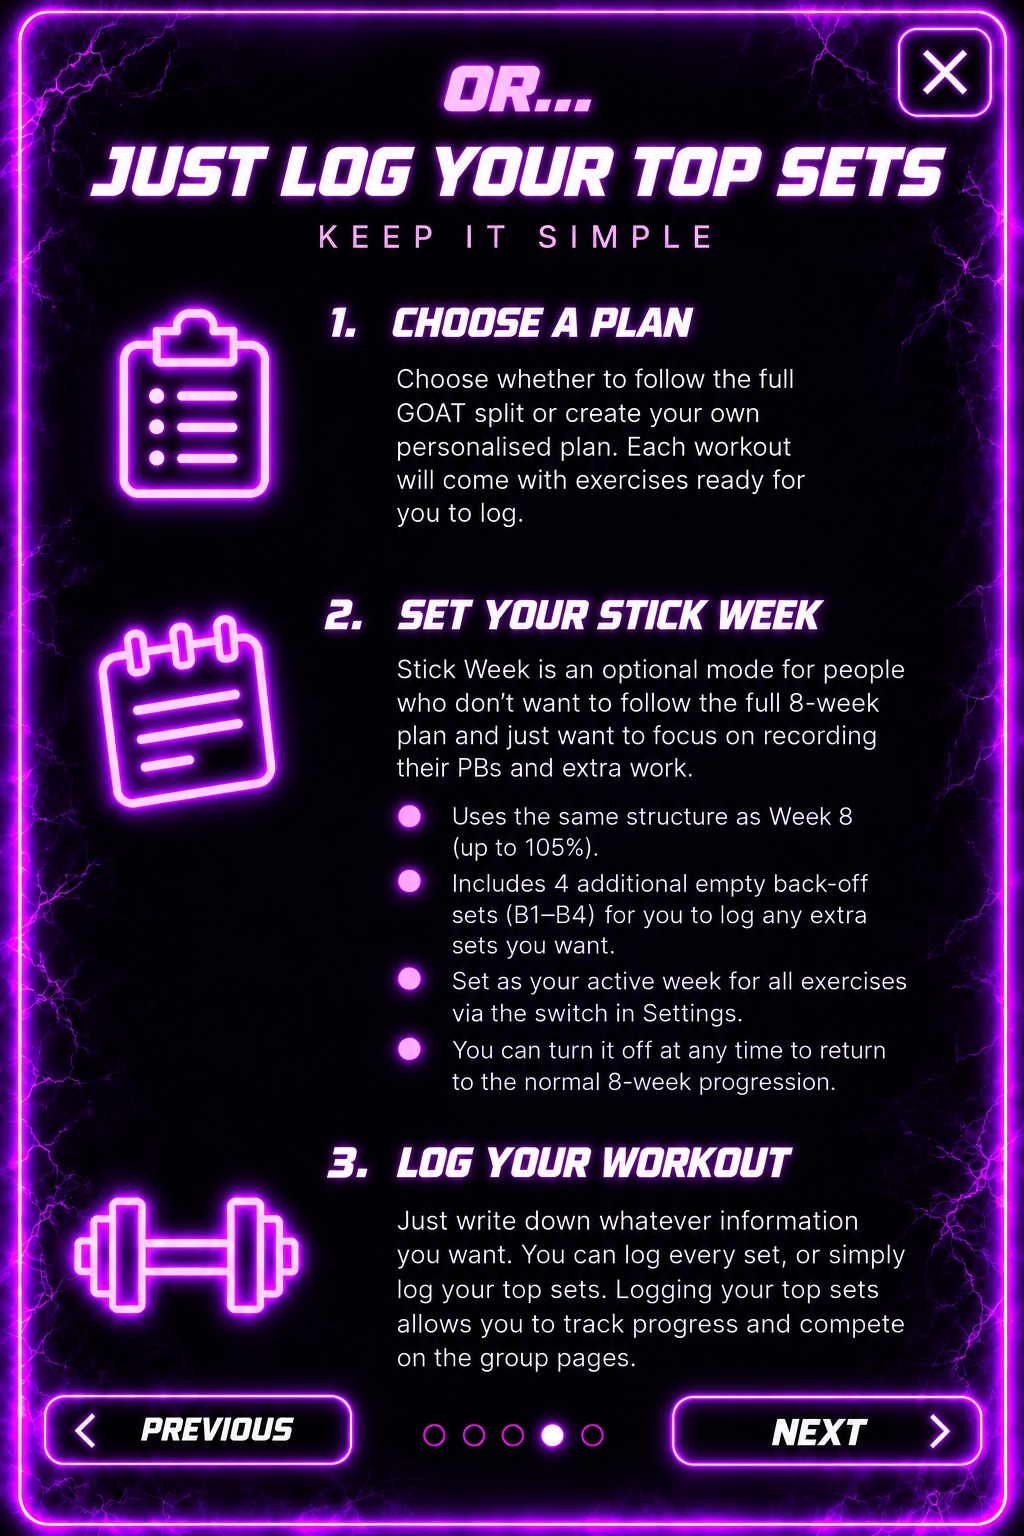
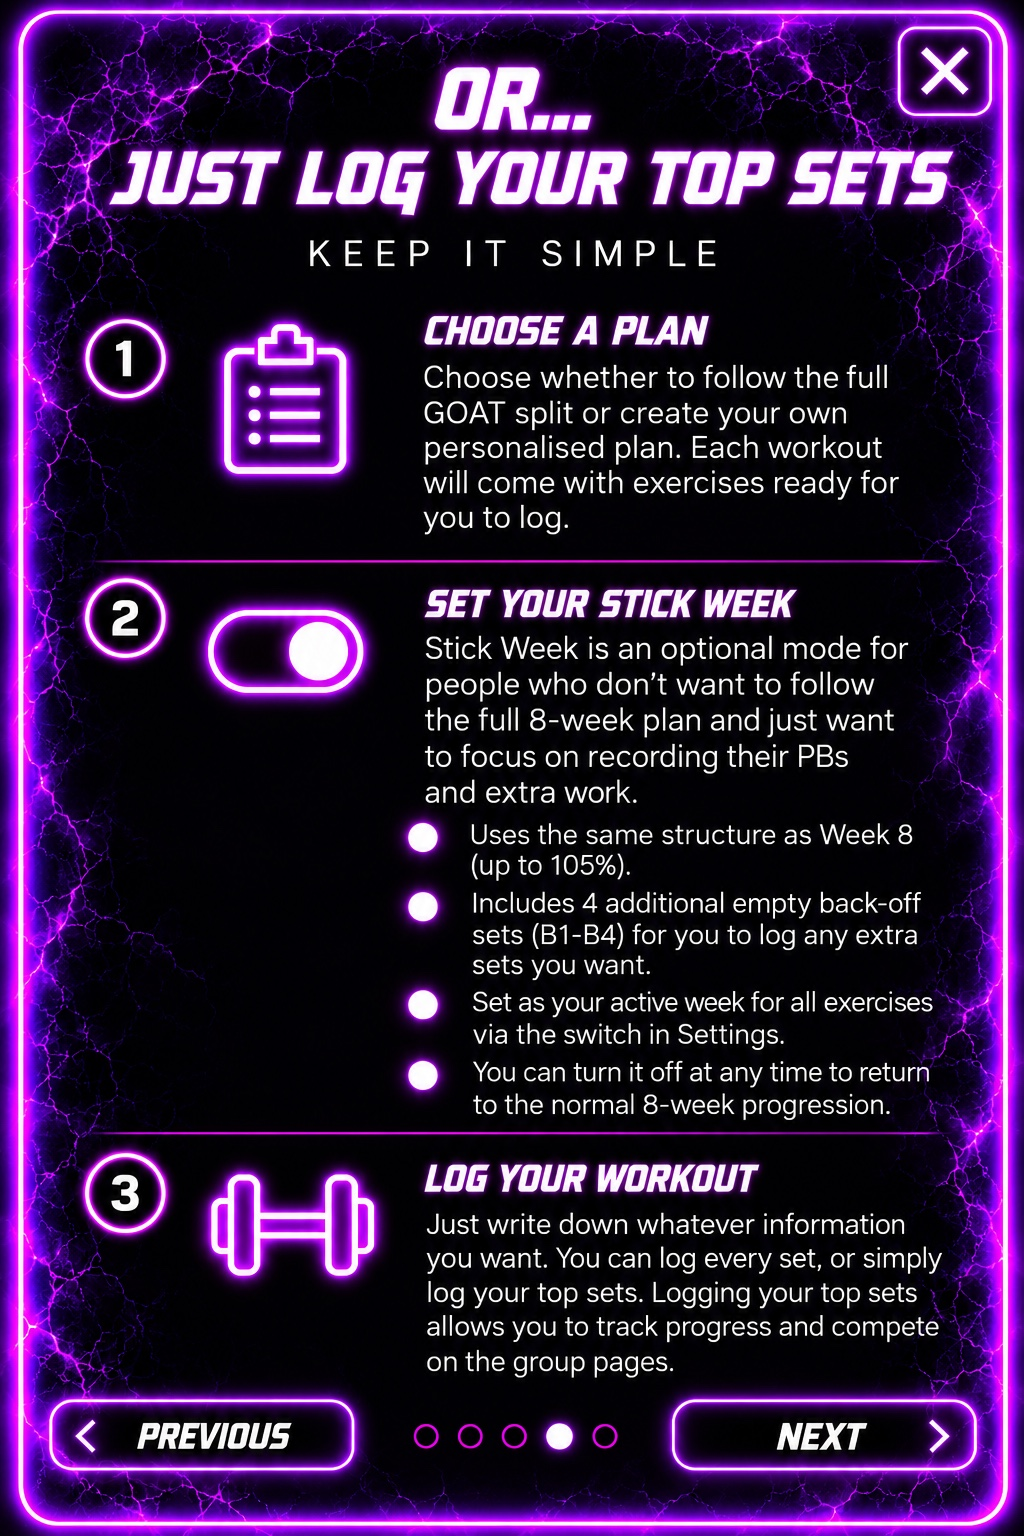
Zag Science v27.26

diff --git a/index.html b/index.html
@@ -649,10 +649,10 @@ function showStreakPopup(force=false){
  let o=document.createElement("div");o.className="streakOverlay";o.innerHTML=`<div class=streakPopup><div class="streakHero ${lost?'streakLost':''}"><div class=streakArmWrap><img class=streakPopupStateArm src="${arm}" alt="Streak state arm"></div><div class=big>${st.streak.count||0}</div></div><h2>${title}</h2><div style="font-size:18px;font-weight:900;color:#ef9cff">DAY STREAK</div><p>${msg}</p><button class=pick onclick="zagStreakPopupContinue(this)">LET'S GO</button></div>`;
  document.body.appendChild(o);st.streak.lastPopup=k;save();
 }
-function toggleExerciseCard(i){let el=document.getElementById('exercise-'+i);if(el)el.classList.toggle('collapsed')}
+function toggleExerciseCard(i){let el=document.getElementById('exercise-'+i);if(el){el.classList.toggle('collapsed');let b=el.querySelector('.exerciseExpand');if(b)b.textContent=el.classList.contains('collapsed')?'EXPAND':'COLLAPSE'}}
 function toggleExtrasCard(){document.getElementById('workoutExtras')?.classList.toggle('collapsed')}
 function workout(){setActiveNav("workout");let d=st.days[st.day],s=`<div class=top><button class=btn onclick="move(-1)">‹ Back</button><div class=title><h1>${esc(d[0])}</h1><p>${esc(st.splitName)} • Day ${st.day+1}/${st.days.length}</p></div><button class=btn onclick="move(1)">Next ›</button></div>`;
-d[1].forEach((ex,e)=>{let ts=sets(ex),w=st.stickWeek?"stick":(st.weeks[ex]||1);s+=`<section id="exercise-${e}" class="exercise collapsed"><div class="exerciseTitleRow" onclick="if(!event.target.closest('select,button'))toggleExerciseCard(${e})"><div class=n>${e+1}</div><div class=name>${esc(ex)}</div><select class=week onclick="event.stopPropagation()" onchange="setExerciseWeek('${q(ex)}',this.value)">${st.stickWeek?`<option value="stick" selected>Stick Week</option>`:[1,2,3,4,5,6,7,8].map(n=>`<option value="${n}" ${n==w?'selected':''}>W${n}</option>`).join("")}</select><div class=titleMax>MAX: ${weightText(st.max[ex]||0)}</div><button class="btn editMain" onclick="event.stopPropagation();chooseExtraForMain(${e})">Edit</button><span class=exerciseChevron>⌄</span></div><div class=exerciseBody><table><tr><th>Set</th><th>%</th><th>Target<br>Weight</th><th>Target<br>Reps</th><th>Actual<br>Weight</th><th>Actual<br>Reps</th><th>Quick</th></tr>`;
+d[1].forEach((ex,e)=>{let ts=sets(ex),w=st.stickWeek?"stick":(st.weeks[ex]||1);s+=`<section id="exercise-${e}" class="exercise collapsed"><div class="exerciseTitleRow"><div class=n>${e+1}</div><button class="exerciseExpand" type="button" onclick="event.stopPropagation();toggleExerciseCard(${e})">EXPAND</button><div class=name>${esc(ex)}</div><select class=week onclick="event.stopPropagation()" onchange="setExerciseWeek('${q(ex)}',this.value)">${st.stickWeek?`<option value="stick" selected>Stick Week</option>`:[1,2,3,4,5,6,7,8].map(n=>`<option value="${n}" ${n==w?'selected':''}>W${n}</option>`).join("")}</select><div class=titleMax>MAX: ${weightText(st.max[ex]||0)}</div><button class="btn editMain" onclick="event.stopPropagation();chooseExtraForMain(${e})">Edit</button></div><div class=exerciseBody><table><tr><th>Set</th><th>%</th><th>Target<br>Weight</th><th>Target<br>Reps</th><th>Actual<br>Weight</th><th>Actual<br>Reps</th><th>Quick</th></tr>`;
 ts.forEach((t,i)=>{let v=st.draft[k(ex,i)]||{},stick=st.stickWeek,workStart=stick?4:5,setLabel=t.backoff?"B"+(i-8):(i<workStart?"W"+(i+1):i-workStart+1),pct=t.backoff?"":(Math.round(t.p*1000)/10+"%");s+=`<tr><td>${setLabel}</td><td>${pct}</td><td>${t.backoff?"":kgToDisplay(t.kg)}</td><td>${t.backoff?"":t.r}</td><td><input class=cell type=number inputmode=decimal value="${v.kg===undefined||v.kg===""?"":kgToDisplay(v.kg)}" onchange="field('${q(k(ex,i))}','kg',this.value)"></td><td><input class=cell type=number inputmode=numeric value="${v.r??""}" onchange="field('${q(k(ex,i))}','r',this.value)"></td><td><button class="fist ${v.done?'done':''}" onclick="one('${q(ex)}',${i},this)">&nbsp;</button></td></tr>`});s+=`</table><button class=exComplete onclick="allExercise('${q(ex)}')"><img class=flameimg src="assets/images/asset-017-67cca83dc4cc.png">COMPLETE<br>ALL SETS</button></div></section>`});
 s+=`<button class=finish onclick=finish()>✓ FINISH WORKOUT</button><section id=workoutExtras class="extras collapsed"><div class=extrasTitleRow onclick=toggleExtrasCard()><h2>Extras / Replacements</h2><span class=exerciseChevron>⌄</span></div><div class=extrasBody>${d[2].map(x=>`<div class=extra><span>${esc(x)}</span><input class=cell type=number value="${st.max[x]?kgToDisplay(st.max[x]):""}" placeholder="Max (${weightUnit()})" onchange="zagSetMax('${q(x)}',this.value)"><button class=btn onclick="openSwap('${q(x)}')">Swap</button></div>`).join("")}<button class=btn style="margin-top:6px" onclick=addEx()>+ Add Exercise</button></div></section>`;document.getElementById("screen").innerHTML=s}
 
@@ -962,6 +962,7 @@ document.addEventListener("visibilitychange",()=>{
   <button id="zagInfoCloseTop" type="button" aria-label="Close information"></button>
   <button class="zagInfoHit zagInfoPrevHit" type="button" aria-label="Previous information page"></button>
   <button class="zagInfoHit zagInfoNextHit" type="button" aria-label="Next information page"></button>
+  <button id="zagInfoPage2FollowPlan" type="button" aria-label="Open Follow the Plan"></button>
   <button id="zagInfoPage2TopSets" type="button" aria-label="Open Just Log Your Top Sets"></button>
   <button id="zagInfoLastCTA" type="button" aria-label="Let’s get stronger">LET’S GET STRONGER&nbsp;&nbsp;›</button>
   <button id="zagInfoGoV6" type="button" aria-label="Close information"></button>
@@ -976,14 +977,16 @@ document.addEventListener("visibilitychange",()=>{
    zagInfoPage=Math.max(0,Math.min(slides.length-1,n));
    slides.forEach((x,i)=>x.classList.toggle("active",i===zagInfoPage));
    const prev=overlay.querySelector(".zagInfoPrevHit"), next=overlay.querySelector(".zagInfoNextHit");
-   const jump=overlay.querySelector("#zagInfoPage2TopSets"), cta=overlay.querySelector("#zagInfoLastCTA");
+   const follow=overlay.querySelector("#zagInfoPage2FollowPlan"), jump=overlay.querySelector("#zagInfoPage2TopSets"), cta=overlay.querySelector("#zagInfoLastCTA");
    if(prev) prev.style.display=zagInfoPage===0?"none":"block";
    if(next) next.style.display=zagInfoPage===4?"none":"block";
+   if(follow) follow.style.display=zagInfoPage===1?"block":"none";
    if(jump) jump.style.display=zagInfoPage===1?"block":"none";
    if(cta) cta.style.display=zagInfoPage===4?"flex":"none";
  }
  overlay.querySelector(".zagInfoPrevHit")?.addEventListener("click",e=>{e.preventDefault();e.stopPropagation();showInfoPage(zagInfoPage-1)});
  overlay.querySelector(".zagInfoNextHit")?.addEventListener("click",e=>{e.preventDefault();e.stopPropagation();showInfoPage(zagInfoPage+1)});
+ overlay.querySelector("#zagInfoPage2FollowPlan")?.addEventListener("click",e=>{e.preventDefault();e.stopPropagation();showInfoPage(2)});
  overlay.querySelector("#zagInfoPage2TopSets")?.addEventListener("click",e=>{e.preventDefault();e.stopPropagation();showInfoPage(3)});
  overlay.querySelector("#zagInfoLastCTA")?.addEventListener("click",e=>{e.preventDefault();e.stopPropagation();closeInfo(e);if(typeof workout==="function")workout();});
  function closeInfo(e){
@@ -3690,6 +3693,33 @@ if ('serviceWorker' in navigator) {
 }
 </style>
 <script id="zag-build-marker-v2724">window.ZAG_BUILD="27.24-ACCOUNT-MODAL-LANDSCAPE-WORKOUT";</script>
+
+<style id="zag-v27-26-final-info-workout-fix">
+/* Info carousel: image artwork is 2:3; hit areas sit directly over the visible controls. */
+#zagInfoPanelV6{width:min(94vw,calc(94dvh * .6666667),700px)!important;aspect-ratio:2/3!important;height:auto!important;max-height:94dvh!important;overflow:hidden!important}
+#zagInfoCloseTop{right:1.2%!important;top:.8%!important;width:12%!important;height:9%!important;z-index:100!important;opacity:.001!important;pointer-events:auto!important}
+.zagInfoPrevHit{left:2%!important;bottom:1%!important;width:34%!important;height:10%!important;z-index:90!important}
+.zagInfoNextHit{right:2%!important;bottom:1%!important;width:34%!important;height:10%!important;z-index:90!important}
+#zagInfoPage2FollowPlan,#zagInfoPage2TopSets{position:absolute;border:0;background:transparent;padding:0;z-index:95;display:none;touch-action:manipulation;-webkit-tap-highlight-color:transparent}
+#zagInfoPage2FollowPlan{right:2%;top:27%;width:18%;height:22%}
+#zagInfoPage2TopSets{right:2%;top:52%;width:18%;height:23%}
+#zagInfoLastCTA{right:2%!important;bottom:1%!important;width:47%!important;height:10%!important;z-index:96!important;border:0!important;background:transparent!important;box-shadow:none!important;color:transparent!important;text-shadow:none!important}
+/* Workout collapsed title cards: no stray chevron, no dead space. */
+.exercise{display:block!important;margin:7px 0!important;overflow:hidden!important}
+.exerciseTitleRow{display:grid!important;grid-template-columns:28px 58px minmax(0,1fr) 66px auto 48px!important;gap:5px!important;align-items:center!important;min-height:38px!important;padding:4px 6px!important;border-bottom:0!important;background:#080a14!important}
+.exerciseTitleRow .n{position:static!important;transform:none!important;width:25px!important;height:25px!important;font-size:11px!important}
+.exerciseTitleRow .name{position:static!important;transform:none!important;min-width:0!important;padding:0!important;text-align:left!important;font-size:10px!important;white-space:nowrap!important;overflow:hidden!important;text-overflow:ellipsis!important}
+.exerciseTitleRow .week{position:static!important;width:66px!important;min-width:66px!important;padding:4px 2px!important;font-size:8px!important}
+.exerciseTitleRow .titleMax{font-size:8px!important;font-weight:900!important;white-space:nowrap!important}
+.exerciseTitleRow .editMain{position:static!important;width:48px!important;min-width:48px!important;padding:4px 2px!important;font-size:8px!important}
+.exerciseExpand{height:25px;padding:0 4px;border:1px solid #c83ee6;border-radius:6px;background:linear-gradient(135deg,#190522,#31083b);color:#f7d9ff;font-size:7px;font-weight:950;letter-spacing:.2px;box-shadow:0 0 7px #b72ed844}
+.exerciseChevron{display:none!important}
+.exercise.collapsed .exerciseBody{display:none!important}
+.exerciseBody{display:grid!important;grid-template-columns:minmax(0,1fr) 86px!important}
+.extras .exerciseChevron{display:none!important}
+@media(max-width:430px){.exerciseTitleRow{grid-template-columns:26px 52px minmax(0,1fr) 58px auto 42px!important;gap:3px!important;padding:4px!important}.exerciseTitleRow .week{width:58px!important;min-width:58px!important}.exerciseTitleRow .editMain{width:42px!important;min-width:42px!important}.exerciseExpand{font-size:6.5px!important}}
+</style>
+<script id="zag-build-marker-v2726">window.ZAG_BUILD="27.26-FINAL-INFO-WORKOUT-EXPAND";</script>
 </body></html>
 
 

diff --git a/sw.js b/sw.js
@@ -1,4 +1,4 @@
-const CACHE = 'zag-science-v27-25-info-carousel-collapsible-workout';
+const CACHE = 'zag-science-v27-26-final-info-workout-expand';
 const CORE = ['./', './index.html', './manifest.webmanifest', './assets/icons/icon-192.png', './assets/icons/icon-512.png', './assets/icons/apple-touch-icon.png'];
 self.addEventListener('install', event => {
   event.waitUntil(caches.open(CACHE).then(cache => cache.addAll(CORE)));
